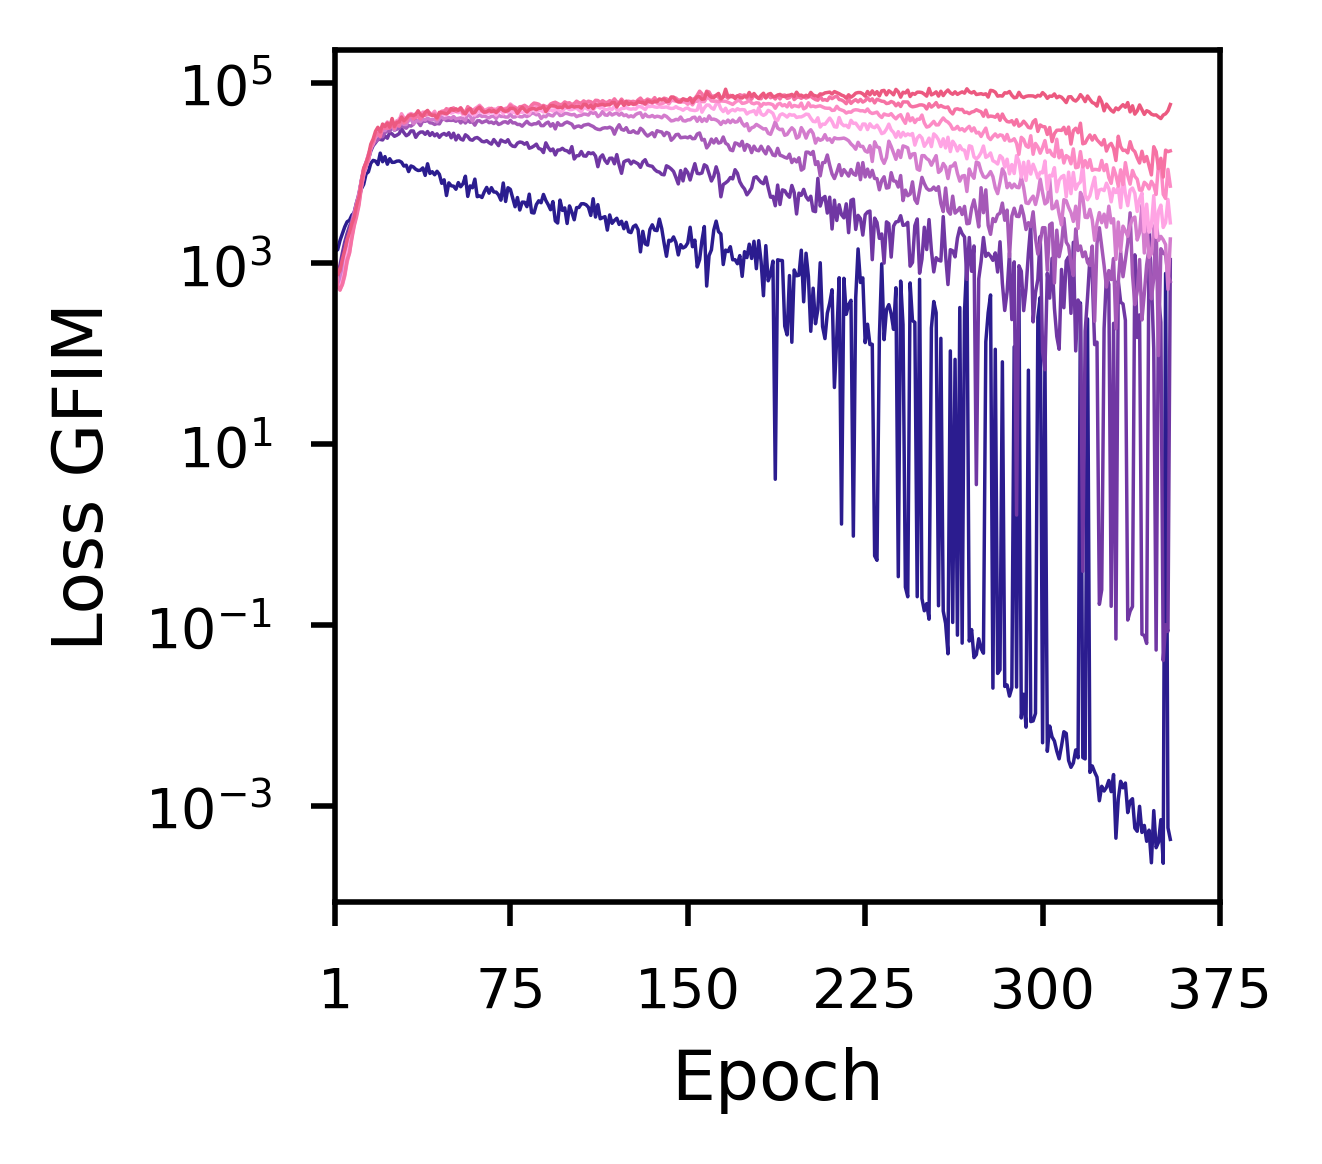
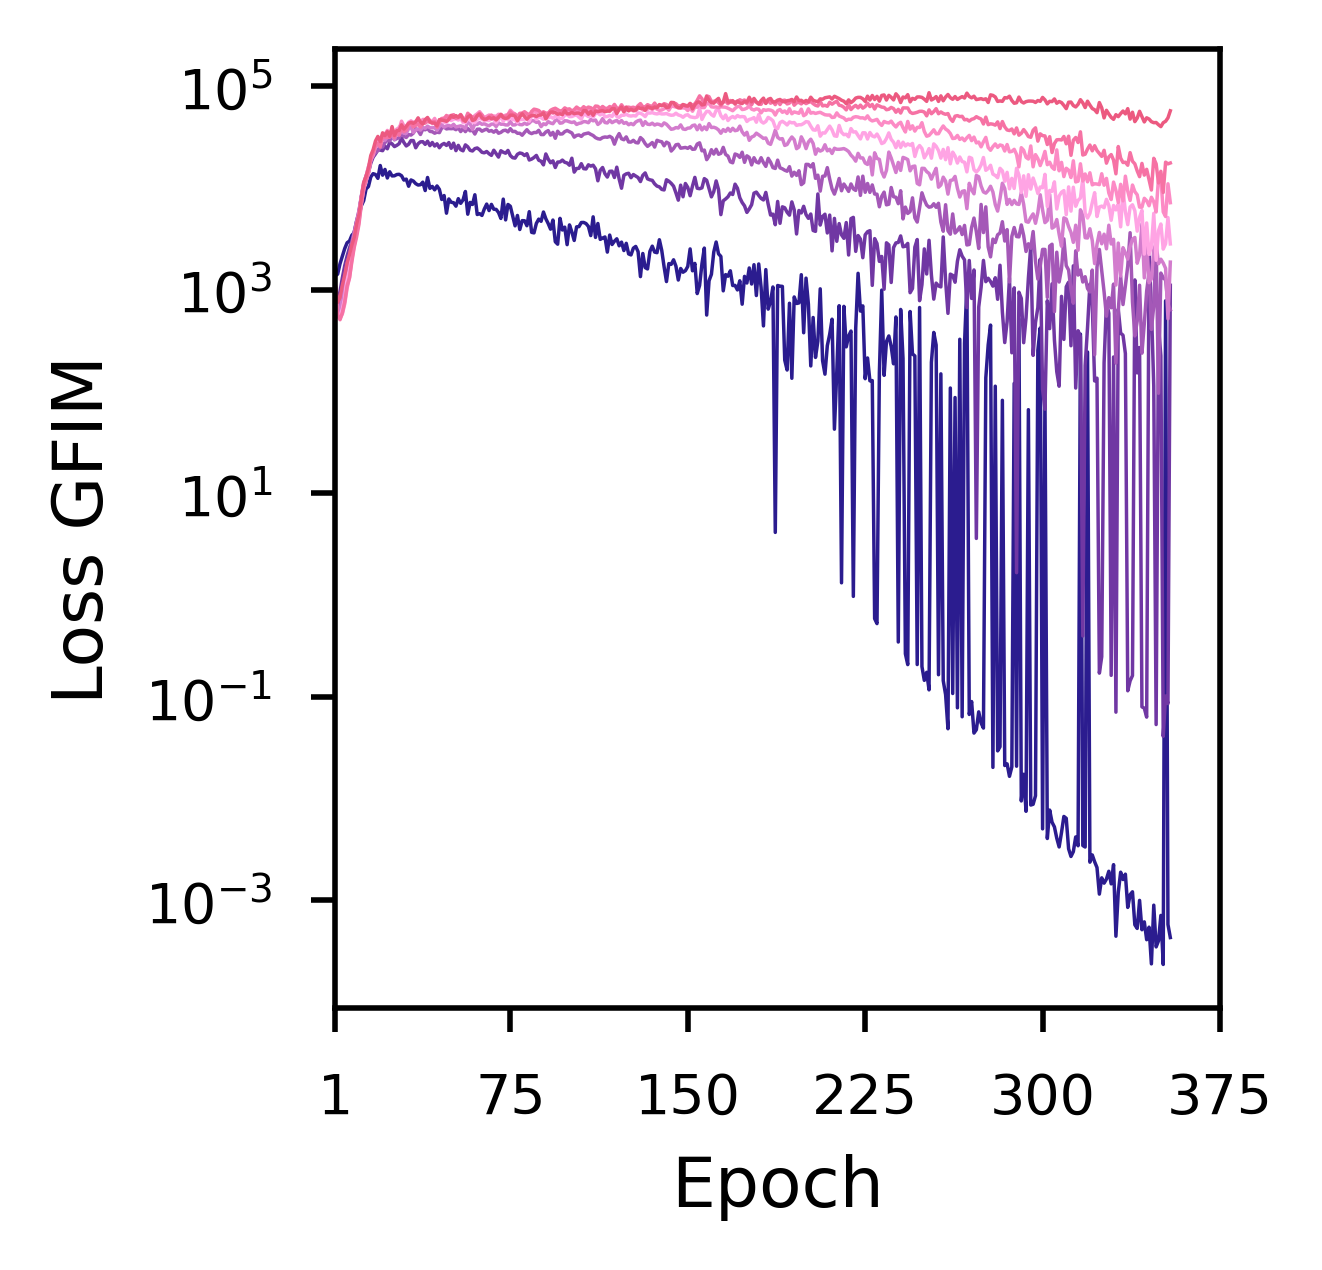
VIT graphs

diff --git a/graphs.py b/graphs.py
@@ -542,7 +542,7 @@ def make_VIT():
     FIMstep['Step'] = FIMstep['Step']+1
     print(FIMstep.head())
 
-    fig, ax = plt.subplots(1,1,figsize=set_size(165,height=160))
+    fig, ax = plt.subplots(1,1,figsize=set_size(165,height=180))
 
     sea.lineplot(ax=ax,x="Step",y="0",data=FIMstep,label="0 (Low)",linewidth=linsize,color=cols[0])
     sea.lineplot(ax=ax,x="Step",y="1",data=FIMstep,label="1",linewidth=linsize,color=cols[1])
@@ -568,7 +568,7 @@ def make_VIT():
     FIMstep['Step'] = FIMstep['Step']+1
     print(FIMstep.head())
 
-    fig, ax = plt.subplots(1,1,figsize=set_size(165,height=160))
+    fig, ax = plt.subplots(1,1,figsize=set_size(165,height=180))
 
     sea.lineplot(ax=ax,x="Step",y="0",data=FIMstep,label="0 (Low)",linewidth=linsize,color=cols[0])
     sea.lineplot(ax=ax,x="Step",y="1",data=FIMstep,label="1",linewidth=linsize,color=cols[1])
@@ -599,7 +599,7 @@ def make_VIT():
     FIMstep['Step'] = FIMstep['Step']+1
     print(FIMstep.head())
 
-    fig, ax = plt.subplots(1,1,figsize=set_size(165,height=160))
+    fig, ax = plt.subplots(1,1,figsize=set_size(165,height=180))
 
     sea.lineplot(ax=ax,x="Step",y="0",data=FIMstep,label="0 (Low)",linewidth=linsize,color=cols[0])
     sea.lineplot(ax=ax,x="Step",y="1",data=FIMstep,label="1",linewidth=linsize,color=cols[1])
